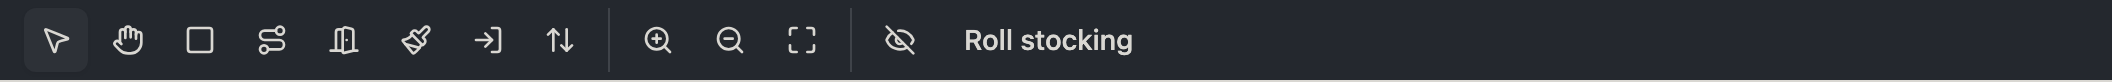
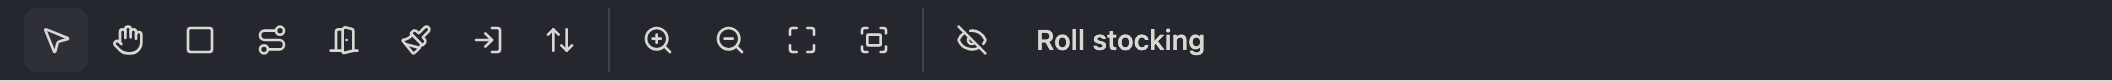
Wrap dialogs at their own width, and put fit-to-level on the toolbar (#26) (#44)
The import dialog's notes were unreadable without dragging the dialog
sideways. Every `DialogContent` lays its content out as a grid, and a
grid item's automatic minimum size is its min-content width, so the
widest unwrappable thing any child contained set the whole dialog's
width instead of wrapping inside it. The import dialog is where it
showed: a 905px notes list laid out in a 510px dialog, 443px of
horizontal scroll, with the description, both section headings, and the
three long-labelled selects all inheriting it.

The floor is zeroed in the dialog primitive itself rather than in the one
dialog that found it — the same trap was latent in blocked-op,
stocking-report, conversion, and the rest, waiting on the first long id,
path, or error message. What stays local to the import dialog is what
that alone does not cover: a `<select>` is sized by its widest option and
needs `max-w-full`, and the notes and unresolved-transitions lists need
somewhere to break. Measured after: `scrollWidth` equals `clientWidth`,
510 to 510. The ten other dialogs reachable from a fresh project were
re-measured and none regressed; no captured dialog shot changed a pixel.

`fitView` existed and was unit-tested but was only ever the view a level
opened with — the first pan or zoom replaced it and nothing brought it
back. **Fit level** joins the zoom buttons and calls it on demand. Reset
zoom is untouched by design: its deterministic 100%-at-the-margin
[…]

Changed region(s): [[0.4062, 0.3171, 0.5938, 0.6585]]

diff --git a/frontend/src/components/import-dialog.tsx b/frontend/src/components/import-dialog.tsx
@@ -193,6 +193,11 @@ function ImportDialogBody({
       })
   }
 
+  // This dialog is the one that found the grid-child `min-width: auto` trap
+  // `DialogContent` now zeroes for every dialog — see the comment there. What
+  // stays local is what that fix alone does not cover: a `<select>` is sized by
+  // its widest option and needs `max-w-full` to be capped, and the long strings
+  // need somewhere to break.
   return (
     <DialogContent className="max-h-[85vh] overflow-y-auto sm:max-w-lg">
       <DialogHeader>
@@ -230,11 +235,11 @@ function ImportDialogBody({
         )}
         {matches !== null && matches.length > 0 && (
           <div className="flex items-end gap-2">
-            <div className="flex flex-col gap-1.5">
+            <div className="flex min-w-0 flex-col gap-1.5">
               <Label htmlFor="import-format">Importer</Label>
               <select
                 id="import-format"
-                className="h-8 rounded-md border border-input bg-transparent px-2 text-sm"
+                className="h-8 max-w-full rounded-md border border-input bg-transparent px-2 text-sm"
                 value={formatId ?? ''}
                 onChange={(event) => setFormatId(event.target.value)}
               >
@@ -256,7 +261,7 @@ function ImportDialogBody({
               <Label htmlFor="import-source-level">Source level</Label>
               <select
                 id="import-source-level"
-                className="h-8 rounded-md border border-input bg-transparent px-2 text-sm"
+                className="h-8 max-w-full rounded-md border border-input bg-transparent px-2 text-sm"
                 value={sourceIndex}
                 onChange={(event) => {
                   setSourceIndex(Number(event.target.value))
@@ -305,11 +310,19 @@ function ImportDialogBody({
               </div>
             )}
             {source && source.notes.length > 0 && (
-              <div className="flex flex-col gap-0.5" aria-label="Importer notes">
+              <div className="flex min-w-0 flex-col gap-0.5" aria-label="Importer notes">
                 <p className="text-sm font-medium">The importer flagged:</p>
-                <ul className="max-h-28 overflow-y-auto text-xs text-muted-foreground">
+                {/* A note wraps onto two or three lines now that it is allowed
+                    to, so the box is taller than the one-line-per-note version
+                    it replaces — same handful of notes visible before scrolling.
+                    `break-words` is for the ones that name a cell or an id: an
+                    unbreakable token is the one string wrapping alone cannot
+                    fit. */}
+                <ul className="flex max-h-56 flex-col gap-1 overflow-y-auto text-xs text-muted-foreground">
                   {source.notes.map((note, index) => (
-                    <li key={index}>{note}</li>
+                    <li key={index} className="break-words">
+                      {note}
+                    </li>
                   ))}
                 </ul>
               </div>
@@ -318,7 +331,7 @@ function ImportDialogBody({
               <Label htmlFor="import-target-dungeon">Destination dungeon</Label>
               <select
                 id="import-target-dungeon"
-                className="h-8 rounded-md border border-input bg-transparent px-2 text-sm"
+                className="h-8 max-w-full rounded-md border border-input bg-transparent px-2 text-sm"
                 value={targetDungeon}
                 onChange={(event) => changeTargetDungeon(event.target.value)}
               >
@@ -408,8 +421,9 @@ function ImportDialogBody({
                     const transition = source.transitions[index]
                     return (
                       <li key={index}>
-                        <label className="flex items-center gap-2">
+                        <label className="flex items-start gap-2">
                           <input
+                            className="mt-0.5 shrink-0"
                             type="checkbox"
                             checked={keepUnresolved.includes(index)}
                             onChange={(event) =>
@@ -420,7 +434,7 @@ function ImportDialogBody({
                               )
                             }
                           />
-                          <span className="text-xs">
+                          <span className="min-w-0 break-words text-xs">
                             {KIND_LABELS[transition.kind]} at{' '}
                             <span className="font-mono">
                               ({transition.position[0]}, {transition.position[1]}) →{' '}

diff --git a/tests/e2e/navigation.spec.ts b/tests/e2e/navigation.spec.ts
@@ -19,7 +19,7 @@ import { join } from 'node:path'
 
 import { expect, test, type Page } from '@playwright/test'
 
-import { CELL_SIZE, RESET_MARGIN } from '../../frontend/src/map/view'
+import { CELL_SIZE, RESET_MARGIN, fitView } from '../../frontend/src/map/view'
 import { cellCenter, createProject, openMap, type Point } from './helpers'
 
 // A synthetic wheel frame on the canvas. Synthesized rather than driven through
@@ -234,6 +234,45 @@ test('the pan tool and a middle-click-and-hold drag both pan', async ({ page }) 
   expect(await cellUnder(page, probe)).toBe('(4, 4)')
   // The middle-drag drew nothing — the room tool never saw a gesture.
   await expect(page.getByTestId('revision')).toHaveText('r1')
+})
+
+// Issue 26's second half: fit-the-level used to be reachable exactly once, as
+// the view a level opens with, and never again once the reader had panned or
+// zoomed. The control puts it back on the toolbar — beside the zoom buttons and
+// beside, not instead of, **Reset zoom**, whose 100%-at-the-margin transform
+// every other map spec computes its cell coordinates from.
+test('fit level reframes the whole level, and reset zoom still pins 100%', async ({ page }) => {
+  await freshMap(page, 'fit-level')
+  const canvas = await page.getByTestId('map-canvas').boundingBox()
+  if (!canvas) throw new Error('the map canvas has no bounding box')
+
+  // Zoom in about the viewport centre until the level's northwest corner is off
+  // frame — the state the issue describes, where nothing short of fit gets the
+  // whole level back.
+  const northwest = await gridPoint(page, 0, 0)
+  for (let step = 0; step < 3; step += 1) {
+    await page.getByRole('button', { name: 'Zoom in' }).click()
+  }
+  expect(await cellUnder(page, northwest)).not.toBe('(0, 0)')
+
+  await page.getByRole('button', { name: 'Fit level' }).click()
+
+  // The fitted transform, computed the way the unit test computes it and read
+  // back through the hover readout: the default 30x30 level is centred, with
+  // both far corners in frame.
+  const fitted = fitView(30, 30, canvas.width, canvas.height)
+  const at = (x: number, y: number): Point => ({
+    x: canvas.x + fitted.offsetX + (x + 0.5) * CELL_SIZE * fitted.scale,
+    y: canvas.y + fitted.offsetY + (y + 0.5) * CELL_SIZE * fitted.scale,
+  })
+  expect(await cellUnder(page, at(0, 0))).toBe('(0, 0)')
+  expect(await cellUnder(page, at(15, 15))).toBe('(15, 15)')
+  expect(await cellUnder(page, at(29, 29))).toBe('(29, 29)')
+
+  // And the control it sits beside is untouched: still a hard 100% at the
+  // pinned margin, from a fitted view as from any other.
+  await page.getByRole('button', { name: 'Reset zoom' }).click()
+  expect(await cellUnder(page, await gridPoint(page, 6, 6))).toBe('(6, 6)')
 })
 
 test('reset zoom pins the transform the coordinate helpers assume', async ({ page }) => {

diff --git a/tests/screenshots/native.spec.ts b/tests/screenshots/native.spec.ts
@@ -106,6 +106,10 @@ test('the project chrome, the map editor, and the stocking surfaces', async ({ p
   const toolbar = page.getByRole('button', { name: 'Room tool' }).locator('xpath=..')
   await expect(toolbar.getByRole('button', { name: 'Select tool' })).toBeVisible()
   await expect(toolbar.getByRole('button', { name: 'Transition tool' })).toBeVisible()
+  // The view controls share the row and the caption names them, so the shot
+  // asserts on them too — a rename or a removal must fail here.
+  await expect(toolbar.getByRole('button', { name: 'Reset zoom' })).toBeVisible()
+  await expect(toolbar.getByRole('button', { name: 'Fit level' })).toBeVisible()
   await shoot(toolbar, 'map-toolbar', testInfo)
 
   // A second room, joined by a corridor, so the level has somewhere to go.
@@ -239,9 +243,11 @@ test('the project chrome, the map editor, and the stocking surfaces', async ({ p
   await expect(page.getByTestId('map-canvas')).toBeVisible()
   // Deliberately left at reset zoom. Zooming in was tried and is worse: `zoomAt`
   // scales about the viewport centre, not the geometry, so two steps pushed the
-  // module off the top-left corner and left one room in frame. There is no
-  // fit-to-content control, so the honest framing of a small module on a 30x30
-  // level is the whole level, empty paper included.
+  // module off the top-left corner and left one room in frame. Issue 26 added a
+  // **Fit level** control since, and it was tried here too — but it fits the
+  // level, not the drawn geometry, so on a small module in the corner of a 30x30
+  // grid it only scales the rooms down to make room for more empty paper. Reset
+  // zoom, which frames the northwest corner at 100%, is still the better shot.
   await shoot(page, 'map-editor-hero', testInfo)
 })
 

diff --git a/tests/e2e/map.spec.ts b/tests/e2e/map.spec.ts
@@ -202,6 +202,22 @@ test('import a One Page Dungeon export, adopting its title and story', async ({ 
   )
   await expect(page.getByLabel('Importer notes')).toContainText('unrecognized type 12')
 
+  // On screen means *readable*, not merely present: issue 26 measured this
+  // dialog at clientWidth 510 against scrollWidth 953, because each direct
+  // child of `DialogContent`'s grid took its min-content width as a floor and
+  // the longest note therefore sized the dialog. The notes are the point of
+  // the import flow, so the fit is asserted rather than eyeballed — the notes
+  // list stays inside the dialog's own box, and the dialog has nothing to
+  // scroll sideways to.
+  const dialogWidths = await page
+    .getByRole('dialog')
+    .evaluate((node) => [node.clientWidth, node.scrollWidth])
+  expect(dialogWidths[1]).toBe(dialogWidths[0])
+  const dialogBox = await page.getByRole('dialog').boundingBox()
+  const notesBox = await page.getByLabel('Importer notes').boundingBox()
+  if (!dialogBox || !notesBox) throw new Error('the import dialog has no bounding box')
+  expect(notesBox.x + notesBox.width).toBeLessThanOrEqual(dialogBox.x + dialogBox.width)
+
   await page.getByRole('checkbox', { name: /Adopt the title/ }).check()
   await page.getByRole('checkbox', { name: /Adopt the description/ }).check()
   // The stair's destination is fabricated, so it never resolves — the dialog

diff --git a/frontend/src/components/ui/dialog.tsx b/frontend/src/components/ui/dialog.tsx
@@ -47,10 +47,19 @@ function DialogContent({
   return (
     <DialogPortal data-slot="dialog-portal">
       <DialogOverlay />
+      {/* `[&>*]:min-w-0` is load-bearing, not noise. The content is a grid, so
+          every direct child is a grid item, and a grid item's automatic minimum
+          size — `min-width: auto` — is its min-content width. Without this the
+          column refuses to shrink below the widest unwrappable thing any child
+          contains, so one long string sizes the whole dialog and pushes it into
+          horizontal scroll instead of wrapping inside it. Issue 26 measured the
+          import dialog at clientWidth 510 against scrollWidth 953 for exactly
+          that reason; the same trap was latent in every other dialog. Zeroing
+          the floor lets the column be the dialog's width. */}
       <DialogPrimitive.Content
         data-slot="dialog-content"
         className={cn(
-          'bg-background fixed top-[50%] left-[50%] z-50 grid w-full max-w-[calc(100%-2rem)] translate-x-[-50%] translate-y-[-50%] gap-4 rounded-lg border p-6 shadow-lg duration-200 sm:max-w-lg',
+          'bg-background fixed top-[50%] left-[50%] z-50 grid w-full max-w-[calc(100%-2rem)] translate-x-[-50%] translate-y-[-50%] gap-4 rounded-lg border p-6 shadow-lg duration-200 sm:max-w-lg [&>*]:min-w-0',
           className,
         )}
         {...props}

diff --git a/frontend/src/components/map-editor.tsx b/frontend/src/components/map-editor.tsx
@@ -7,6 +7,7 @@ import {
   ArrowUpDownIcon,
   DoorOpenIcon,
   EyeOffIcon,
+  FullscreenIcon,
   HandIcon,
   LogInIcon,
   MaximizeIcon,
@@ -767,6 +768,23 @@ export function MapEditor({
           onClick={() => setView(resetView())}
         >
           <MaximizeIcon />
+        </Button>
+        {/* Fit-the-level, on demand. The same transform the editor opens a
+            level with, which until now was reachable exactly once — before the
+            first pan or zoom — and never again. Reset zoom stays a hard 100% at
+            the pinned margin: it is the deterministic anchor the e2e coordinate
+            math is computed from, so the two controls are separate. */}
+        <Button
+          variant="ghost"
+          size="icon-sm"
+          aria-label="Fit level"
+          onClick={() =>
+            viewport &&
+            level &&
+            setView(fitView(level.width, level.height, viewport.width, viewport.height))
+          }
+        >
+          <FullscreenIcon />
         </Button>
         <Separator orientation="vertical" className="mx-1 h-5" />
         <Tooltip>

diff --git a/frontend/src/components/map-editor.test.tsx b/frontend/src/components/map-editor.test.tsx
@@ -61,6 +61,7 @@ test('the surface renders the chrome: switcher, tabs, toolbar, canvas, inspector
     'Zoom in',
     'Zoom out',
     'Reset zoom',
+    'Fit level',
   ]) {
     expect(screen.getByRole('button', { name: label })).toBeInTheDocument()
   }

diff --git a/CHANGELOG.md b/CHANGELOG.md
@@ -15,9 +15,13 @@ and this project adheres to [Semantic Versioning](https://semver.org/spec/v2.0.0
 
 - The treasure preview now names the magic items it rolled ([#36](https://github.com/mmacy/osr-editor/issues/36)). The preview route had been resolving every sampled item's template id to its catalog name and returning it with the quantity and charges all along; the panel printed `1 magic` and threw the rest away — so the preview stayed silent about the one thing most likely to decide whether a hoard suits a room. Each sampled hoard's summary line now carries the items beneath it, one per row: the catalog name, a leading count only when the roll produced more than one, and the charges in parentheses only for an item that carries a charge count. A hoard that rolled no magic renders nothing extra. Gems and jewellery stay a count — naming three gem values is not the same help as naming a wand. No API change, and the `docs/guides/authoring-aids.md` bullet that promised resolved magic-item names before it was retired in #33 is accurate again.
 
+- Dialogs wrap their long strings instead of scrolling sideways, so the import dialog's converter notes are readable where they are written ([#26](https://github.com/mmacy/osr-editor/issues/26)). Every dialog lays its content out as a grid, and a grid item's automatic minimum size is its min-content width — so the widest unwrappable thing any child contained set the whole dialog's width rather than wrapping inside it. The import dialog is where it showed: one long importer note laid a 905-pixel list out in a 510-pixel dialog and pushed the surface into 443 pixels of horizontal scroll, taking the description, both section headings, and the long-labelled **Importer**, **Source level**, and **Destination dungeon** selects with it. The floor is now zeroed in the dialog primitive itself, so the same trap cannot spring in the blocked-op, stocking-report, conversion, or any other dialog the day one of them renders a long id, path, or error. On top of that the import dialog's selects cap to the dialog's width, and its notes and unresolved-transitions lists wrap and break the ids and cell references no wrap can fit, with room for the same handful of notes as before now that each takes more than one line. A user reading which judgment calls the converter made — the round room squared off to fit the grid, the fabricated transition destination that is a validation error until resolved — reads them without dragging the dialog sideways one line at a time.
+
 - The transition dialog's target-cell picker now selects the cell under the cursor. The picker canvas rendered at a fixed thumbnail size but the dialog's layout stretched it to the dialog's width, while clicks kept mapping through the thumbnail's cell size — so a click landed on a cell roughly twice as far from the origin as the one clicked, and everything past the visible midpoint silently did nothing. Clicks now map through the rendered rectangle, correct at any display size the surrounding layout imposes, and the same fix covers the trap builder's slide destination and the feature cards' cell binding, which share the component. The picker also stops being a blurry field of blobs: it draws with the map's own renderer at device-pixel resolution, so walls, doors, corridors, the entrance, existing transitions, and area keys all read the same in the picker as on the canvas — corridors in particular were invisible before, because the old thumbnail painted area fills only. The dialog caps its height and scrolls instead of pushing its footer past the viewport on tall levels, and when the picked landing cell already carries a transition — or is the departing cell itself — the dialog says so — before, the "create the reciprocal stairs" checkbox stayed checked while the reciprocal was silently dropped, leaving a one-way flight and a `transition_unpaired` finding with nothing connecting the two. Sharing the renderer also puts one judgment in one place: on the main canvas as in the picker, area key numbers now skip below eight-pixel cells, where their nine-pixel minimum font was smearing across neighbouring cells at the farthest zoom.
 
 ### Added
+
+- **Fit level**, a map toolbar control beside the zoom buttons, frames the whole level in the viewport ([#26](https://github.com/mmacy/osr-editor/issues/26)). The editor already opened a level fitted, but only ever once: the first pan or zoom replaced that view and nothing brought it back, and **Reset zoom** is a hard 100% at the northwest corner rather than a fit. Zooming in scales about the viewport centre, so on a level whose geometry sits in a corner it walks the map further out of frame — one click now recovers from that. **Reset zoom** is unchanged and deliberately so: its deterministic transform is what the map's cell-coordinate maths is computed from, so the two controls sit side by side rather than one replacing the other.
 
 - Transitions are editable in place: selecting a transition cell offers **Edit transition**, which reopens the dialog prefilled and replaces the flight in one undo step — changing an arrival facing no longer means removing the stairs and rebuilding them from scratch. The dialog also grows typed **X**/**Y** coordinate entry beside the picker (a keyboard path where there was only the canvas), a **Use the source cell** shortcut with the source ghosted onto the target grid — the stacked-stairs case wants the landing directly below the departure — live hover coordinates before the click commits, and defaults that follow intent: the target level starts at the nearest level below (else above), and the kind follows the travel direction until touched. Kind and facing options render as sentence-case labels rather than raw `stairs_down` enum values, here, in the inspector, in the import dialog's unresolved-transitions list, and in the trap builder's slide form; trapdoors and chutes state their one-way rule where the reciprocal checkbox would be.
 

diff --git a/docs/guides/map-editor.md b/docs/guides/map-editor.md
@@ -13,8 +13,8 @@ Every level renders as graph paper, and the tool set works directly on it.
 - **Entrance** (`E`) places the level entrance.
 - **Transition** (`T`) places stairs, trapdoors, and chutes with a target-level picker — stairs offer reciprocal creation in the same undo step.
 
-![The map editor tool palette: select, pan, room, corridor, wall and door, area, entrance, and transition](../assets/screenshots/map-toolbar-light.png#only-light)
-![The map editor tool palette: select, pan, room, corridor, wall and door, area, entrance, and transition](../assets/screenshots/map-toolbar-dark.png#only-dark)
+![The map editor toolbar: the select, pan, room, corridor, wall and door, area, entrance, and transition tools, then the zoom in, zoom out, reset zoom, and fit level view controls](../assets/screenshots/map-toolbar-light.png#only-light)
+![The map editor toolbar: the select, pan, room, corridor, wall and door, area, entrance, and transition tools, then the zoom in, zoom out, reset zoom, and fit level view controls](../assets/screenshots/map-toolbar-dark.png#only-dark)
 
 ### Room or area?
 
@@ -31,6 +31,8 @@ Neither tool takes cells away from another area, so painting over a neighbour's 
 ## Moving around the map
 
 The map moves the way a web map does. Zoom with the wheel or a trackpad pinch, always about the pointer; pan with a two-finger drag, a middle-click-and-hold drag, a space-drag, or a plain left-drag under the select or pan tool. Reset to 100% with `0` or the reset control. `Delete` removes the selection; `Esc` cancels a gesture.
+
+Two view controls sit beside the zoom buttons and do different things. **Reset zoom** snaps to 100% with the level's northwest corner at the top left — the fixed frame to come back to when you want the map at its drawn size. **Fit level** scales the whole level to the viewport and centres it, which is the view a level opens with; use it after panning or zooming has taken the map somewhere you can't see it. Because the zoom buttons scale about the centre of the view, a level whose geometry sits in one corner walks further off screen as you zoom in, and **Fit level** is the one click back.
 
 Zoom is proportional to the gesture and **accelerates as you push it**: the first moments of a pinch or a wheel spin stay fine-grained for framing a room, and holding the gesture on ramps the rate up to cross scales quickly. Pause and it returns to fine-grained, so precision is always a fraction of a second away. Nothing coasts after you stop.
 

diff --git a/docs/guides/import-export-publish.md b/docs/guides/import-export-publish.md
@@ -13,8 +13,8 @@ The import dialog renders every converter note before anything commits, and the 
 
 An import that brings prose you didn't want — a One Page Dungeon export describes every keyed room — comes back to blank rooms in one more step: **Clear content** on the level row strips the level to its geometry, keeping the map and discarding the keys' contents. See [the map editor](map-editor.md#levels-and-dungeons).
 
-![The import dialog: the converter's notes, the metadata offered for adoption, and the destination controls](../assets/screenshots/import-dialog-light.png#only-light)
-![The import dialog: the converter's notes, the metadata offered for adoption, and the destination controls](../assets/screenshots/import-dialog-dark.png#only-dark)
+![The import dialog listing every judgment call the One Page Dungeon converter made — the round room imported as its bounding square, two doors dropped as duplicates, a second boundary door left to place by hand, and the stairs down carrying a fabricated destination to resolve or drop before publishing — above the title and story offered for adoption and the destination controls](../assets/screenshots/import-dialog-light.png#only-light)
+![The import dialog listing every judgment call the One Page Dungeon converter made — the round room imported as its bounding square, two doors dropped as duplicates, a second boundary door left to place by hand, and the stairs down carrying a fabricated destination to resolve or drop before publishing — above the title and story offered for adoption and the destination controls](../assets/screenshots/import-dialog-dark.png#only-dark)
 
 ## Export
 
